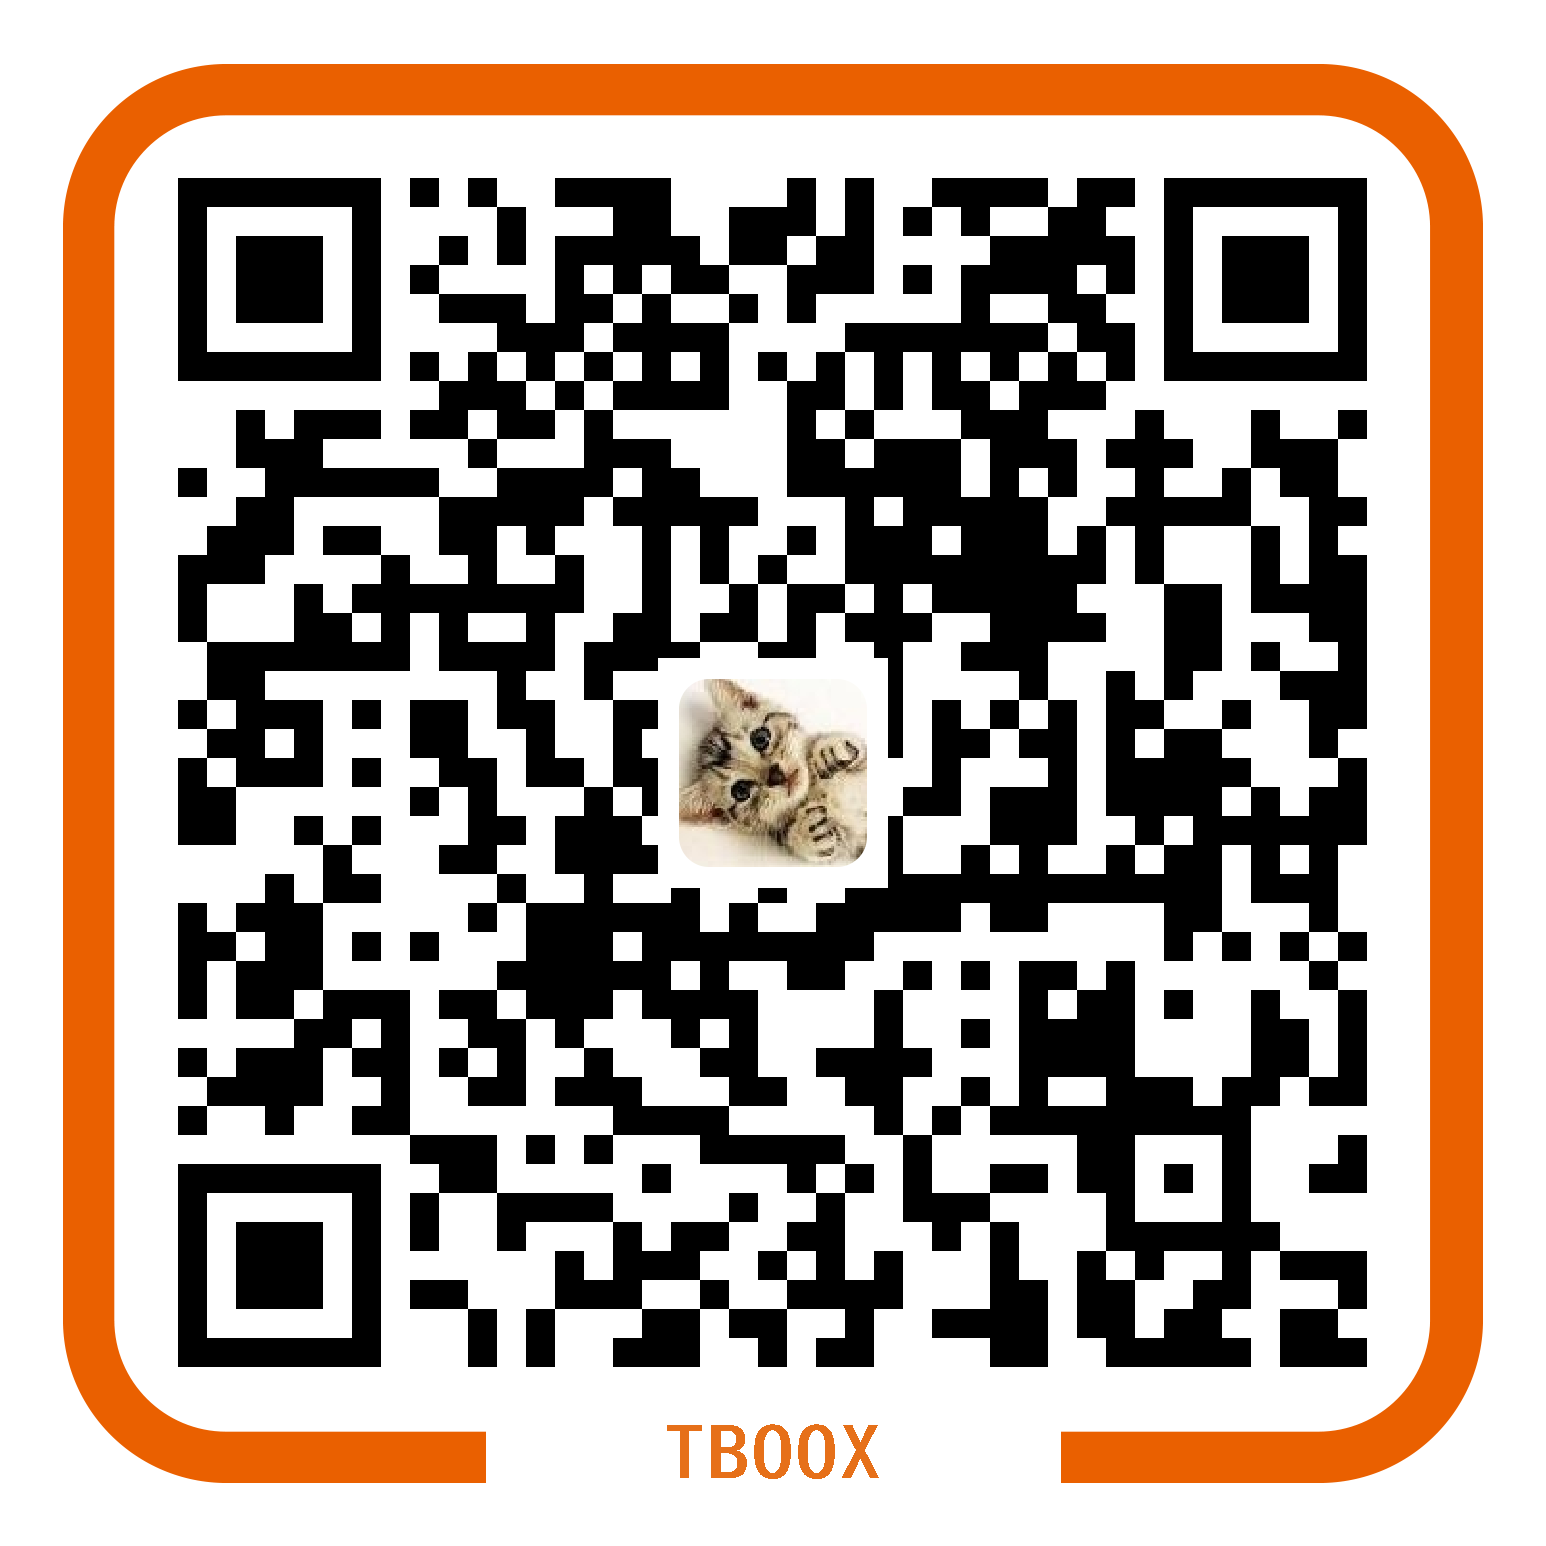
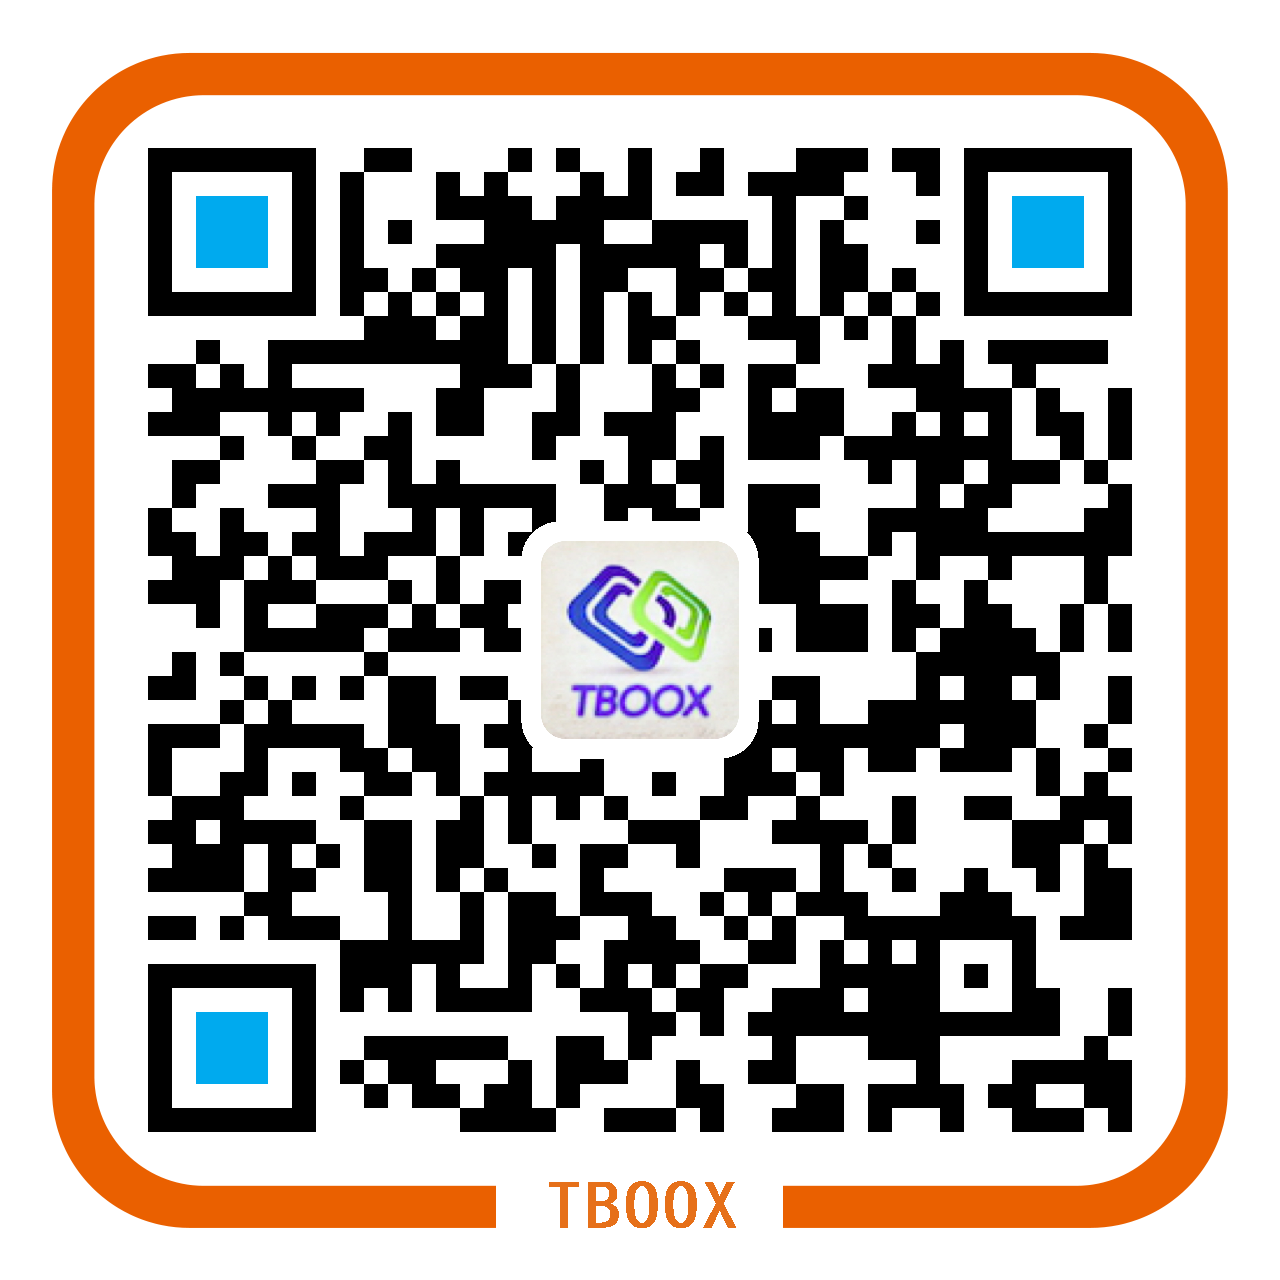
add weixin

diff --git a/cn/donation/index.html b/cn/donation/index.html
@@ -125,9 +125,13 @@
 
 <p>账号：waruqi@gmail.com</p>
 
-<h2 id="section-1">捐助者名单</h2>
+<h3 id="section-1">微信</h3>
 
-<h4 id="section-2">2016.01.29</h4>
+<p><img src="/static/img/weixin.png" alt="weixin" width="256" height="256" /></p>
+
+<h2 id="section-2">捐助者名单</h2>
+
+<h4 id="section-3">2016.01.29</h4>
 <ul>
   <li><a href="xak@list.ru">Evgeny Kulikov</a>: $2</li>
   <li>建忠：¥20.16</li>

diff --git a/donation/index.html b/donation/index.html
@@ -123,6 +123,10 @@
 
 <p><img src="/static/img/alipay.png" alt="alipay" width="256" height="256" /></p>
 
+<h3 id="weixin">Weixin</h3>
+
+<p><img src="/static/img/weixin.png" alt="weixin" width="256" height="256" /></p>
+
 <h3 id="supporters">Supporters</h3>
 
 <h4 id="section">2016.01.29</h4>
